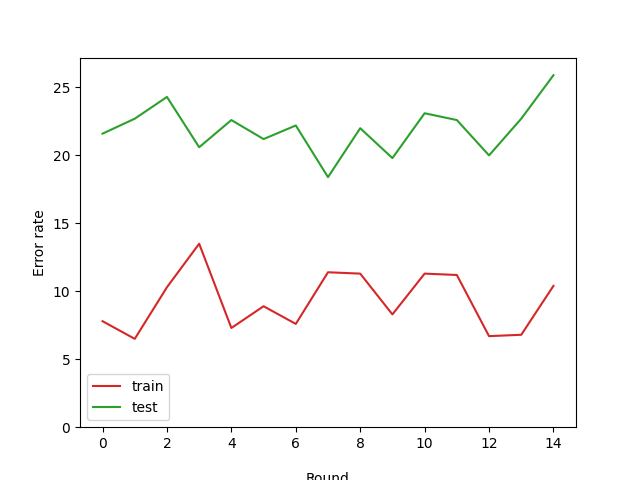
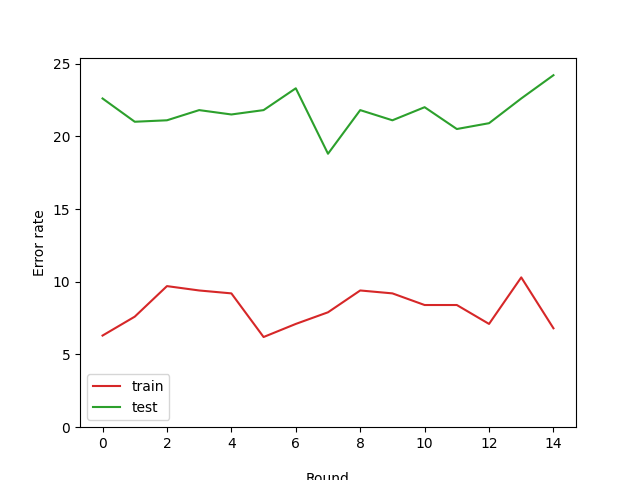
remove dropout third layer

diff --git a/project1/models.py b/project1/models.py
@@ -11,7 +11,7 @@ from modelclass import Model
 class Baseline(Model):
     """ The Baseline model is composed only of fully-connected layers. """
 
-    def __init__(self, f_gen_data, nb_epochs=25, mini_batch_size=100, learning_rate=1e-3, l2_rate=0):
+    def __init__(self, f_gen_data, nb_epochs=25, mini_batch_size=100, learning_rate=1e-3, l2_rate=1e-3):
         super().__init__(f_gen_data, nb_epochs, mini_batch_size, learning_rate, l2_rate)
 
         # layer 1
@@ -58,7 +58,7 @@ class Baseline(Model):
 class Auxiliary(Model):
     """ This model extends the baseline model by adding auxiliary loss """
 
-    def __init__(self, f_gen_data, nb_epochs=25, mini_batch_size=100, learning_rate=2e-2, l2_rate=0):
+    def __init__(self, f_gen_data, nb_epochs=25, mini_batch_size=100, learning_rate=2e-2, l2_rate=1e-3):
         super().__init__(f_gen_data, nb_epochs, mini_batch_size, learning_rate, l2_rate)
 
         # tell parent class we use auxiliary loss
@@ -125,7 +125,6 @@ class CNN(Model):
         # 3rd layer : convolutional
         self.conv3 = nn.Conv2d(64, 32, kernel_size=3, padding=3)
         self.bn3 = nn.BatchNorm2d(32)
-        # self.drop3 = nn.Dropout(0.5)
 
         # 4th layer : convolutional
         self.conv4 = nn.Conv2d(32, 16, kernel_size=5, padding=3)
@@ -193,7 +192,6 @@ class CNN_Auxiliary(Model):
         # 3rd layer : convolutional
         self.conv3 = nn.Conv2d(64, 32, kernel_size=3, padding=3)
         self.bn3 = nn.BatchNorm2d(32)
-        self.drop3 = nn.Dropout(0.5)
 
         # 4th layer : convolutional
         self.conv4 = nn.Conv2d(32, 16, kernel_size=5, padding=3)
@@ -220,7 +218,6 @@ class CNN_Auxiliary(Model):
 
         # layer 3
         x = F.max_pool2d(F.relu(self.bn3(self.conv3(x))), kernel_size=2)
-        x = self.drop3(x)
 
         # layer 4
         x = F.max_pool2d(F.relu(self.bn4(self.conv4(x))), kernel_size=2)

diff --git a/project1/test.py b/project1/test.py
@@ -39,20 +39,21 @@ def train_and_test_rounds(model, nb_rounds, test_id):
 def main():
     number_rounds = 15
 
-    # model1 = Baseline(generate_pair_sets)
-    # mRes1 = train_and_test_rounds(model1, number_rounds, "Baseline")
-    #
-    # model2 = Auxiliary(generate_pair_sets)
-    # mRes2 = train_and_test_rounds(model2, number_rounds, "Auxiliary")
+    model1 = Baseline(generate_pair_sets)
+    mRes1 = train_and_test_rounds(model1, number_rounds, "Baseline")
+
+    model2 = Auxiliary(generate_pair_sets)
+    mRes2 = train_and_test_rounds(model2, number_rounds, "Auxiliary")
 
     model3 = CNN(generate_pair_sets)
     mRes3 = train_and_test_rounds(model3, number_rounds, "CNN")
 
-    # model4 = CNN_Auxiliary(generate_pair_sets)
-    # mRes4 = train_and_test_rounds(model4, number_rounds, "CNN_Aux")
+    model4 = CNN_Auxiliary(generate_pair_sets)
+    mRes4 = train_and_test_rounds(model4, number_rounds, "CNN_Aux")
 
-    plot_model_result(mRes3, number_rounds)
-    # plot_models_results_comparison([mRes1, mRes2, mRes3, mRes4], number_rounds, True)
+    # plot_model_result(mRes4, number_rounds)
+    # plot_models_results_comparison([mRes4], number_rounds, True)
+    plot_models_results_comparison([mRes1, mRes2, mRes3, mRes4], number_rounds, True)
 
 
 if __name__ == '__main__':

diff --git a/project1/plot.py b/project1/plot.py
@@ -108,6 +108,10 @@ def plot_test_err_rates_means(model_results):
     means = [mean(mod_res.test_err_rates) for mod_res in model_results]
     stds = [std(mod_res.test_err_rates) for mod_res in model_results]
 
+    for k in zip(means, stds):
+        print(k[0], " ", k[1])
+    print()
+
     ax.bar(names, means, color=colors[0:len(model_results)], yerr=stds, capsize=4)
 
     plt.savefig("results/test_err_avg" + concat_models_names(model_results) + ".png")

diff --git a/project1/modelclass.py b/project1/modelclass.py
@@ -34,7 +34,7 @@ class Model(nn.Module):
 
     sets_size = 1000
 
-    def __init__(self, f_gen_data, nb_epochs=25, mini_batch_size=100, learning_rate=5e-3, l2_rate=0.1):
+    def __init__(self, f_gen_data, nb_epochs=25, mini_batch_size=100, learning_rate=5e-3, l2_rate=0):
         super().__init__()
         self.generate_data = f_gen_data
         self.epochs = nb_epochs
